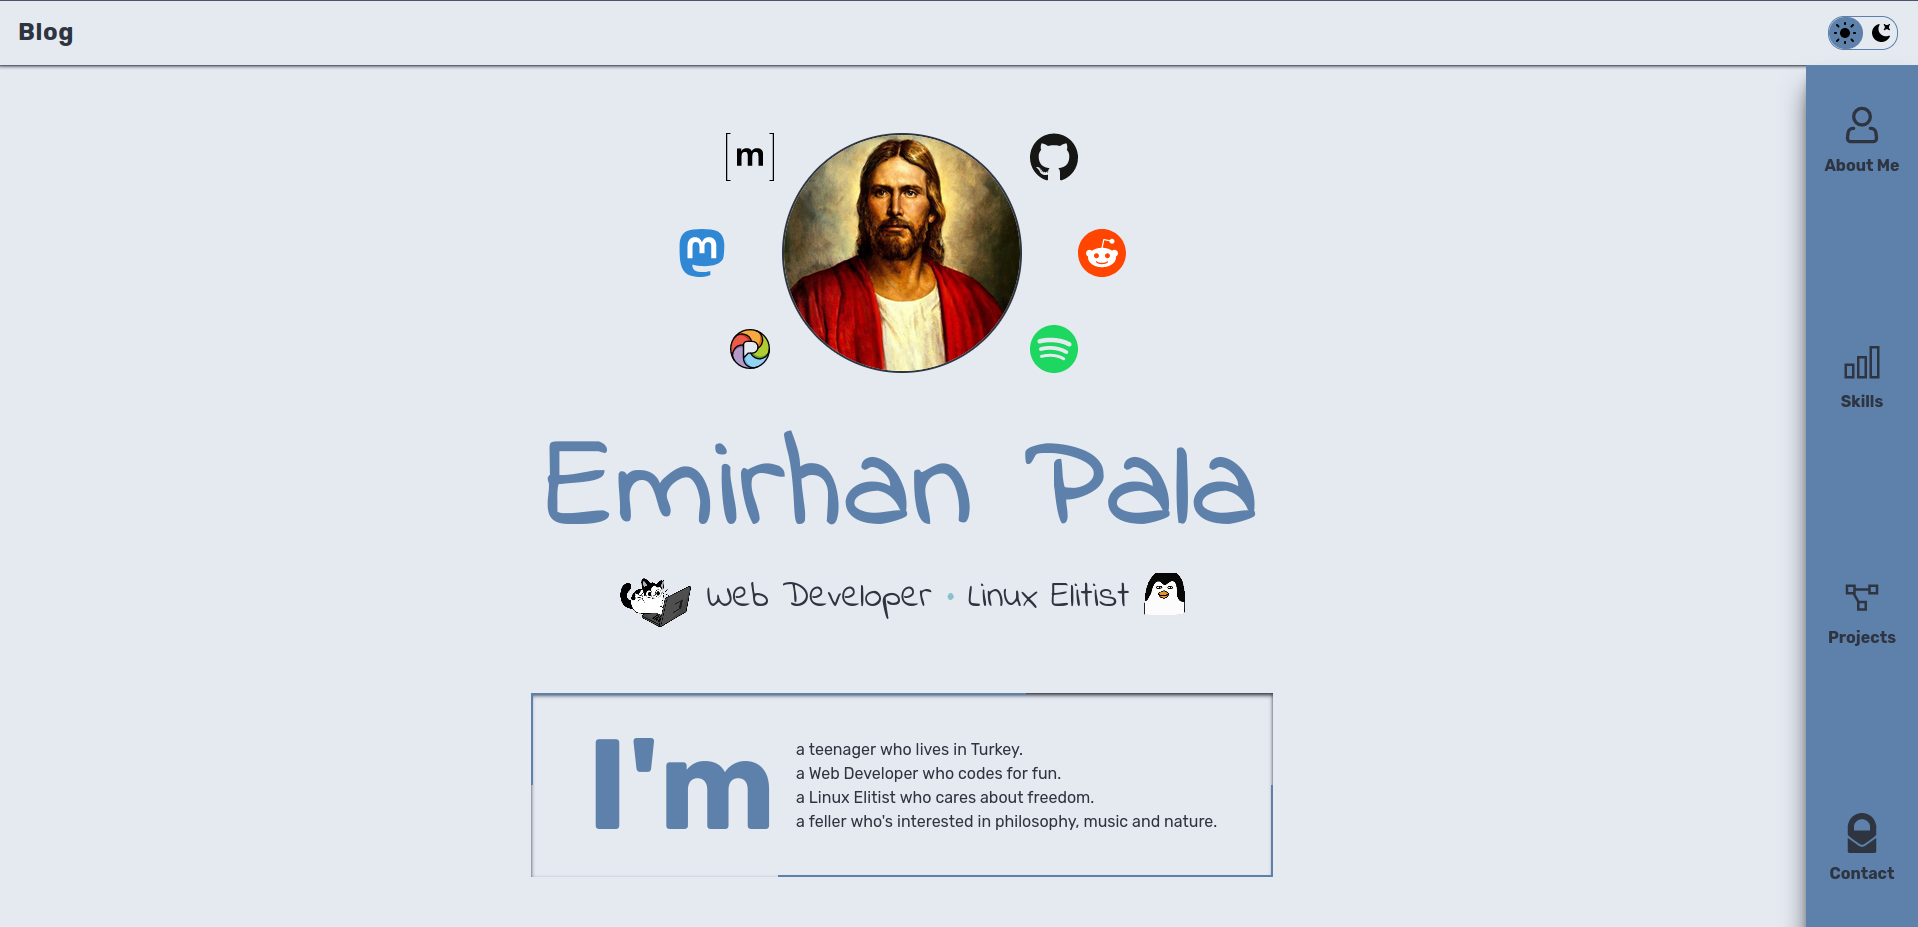
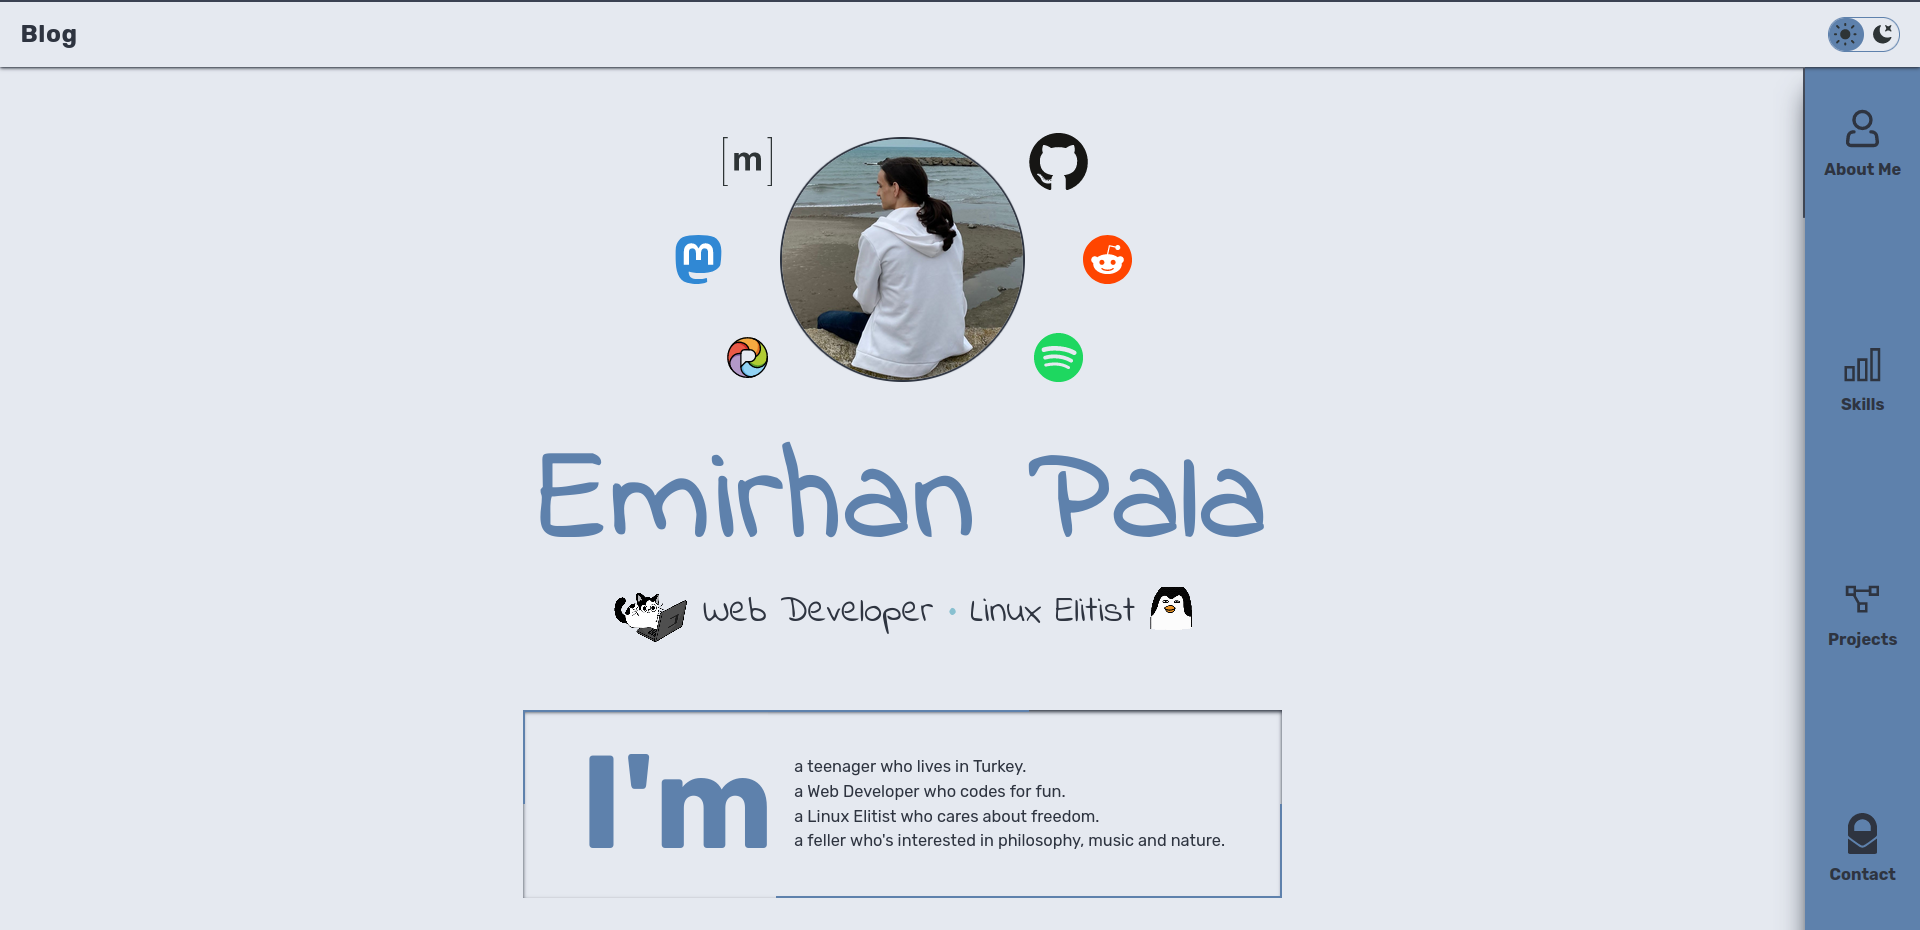
Update pictures

diff --git a/components/AboutMe/AlternatePP.tsx b/components/AboutMe/AlternatePP.tsx
@@ -24,7 +24,7 @@ const AlternatePP: FC = () => {
       animate="visible"
       exit="hidden"
       transition={{ ease: "linear", duration: 1 }}
-      src="/pp.jpg"
+      src="/alternatepp.jpg"
       alt="Emirhan Pala"
       className="w-40 h-40 alt-xl:w-60 alt-xl:h-60 border-2 rounded-full border-nord0 dark:border-nord8"
     />
